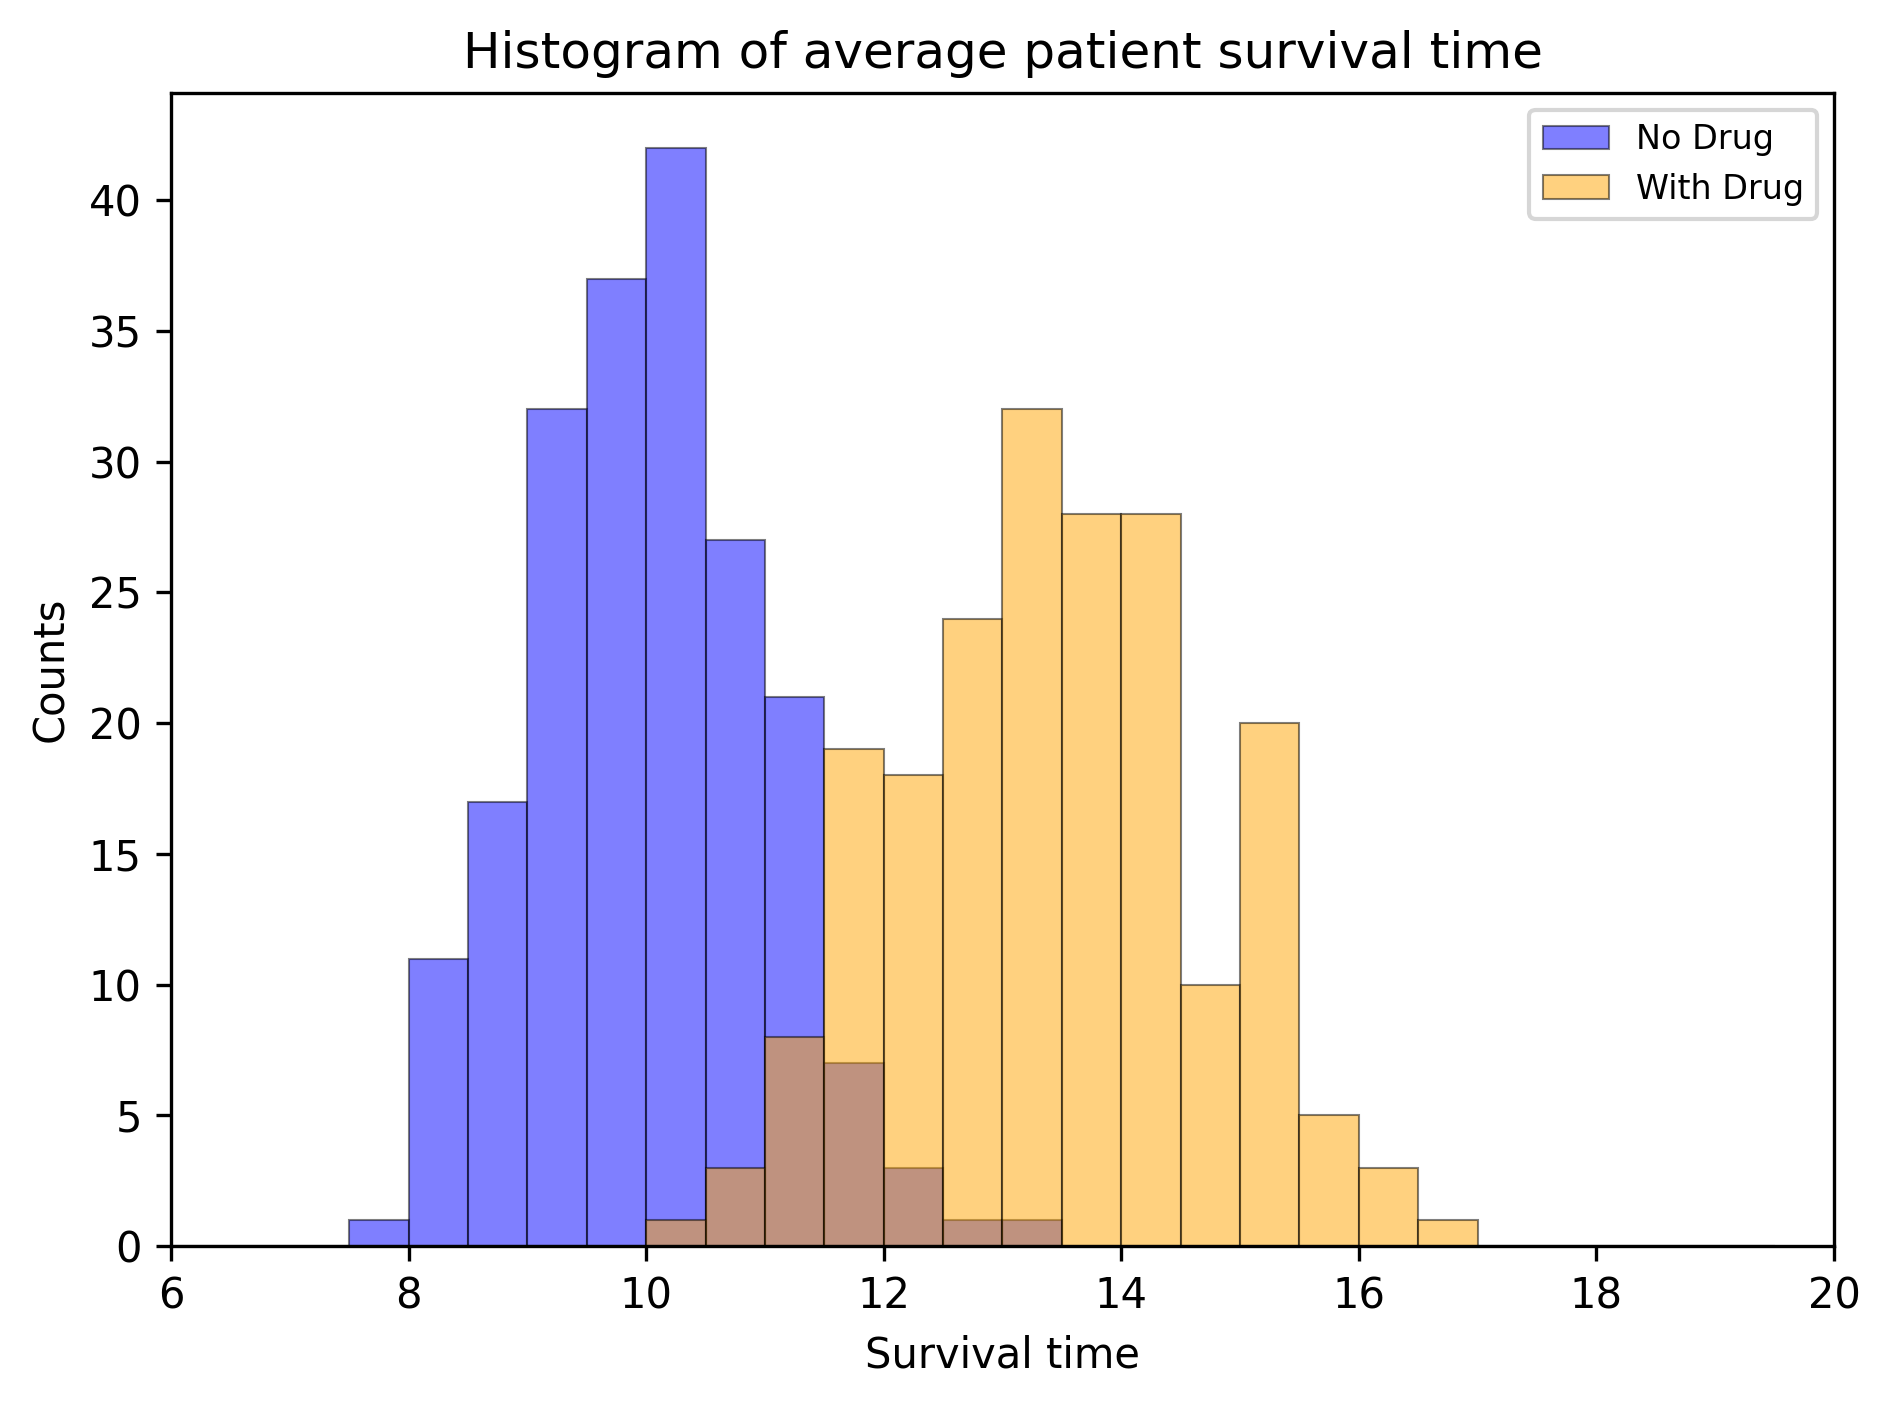
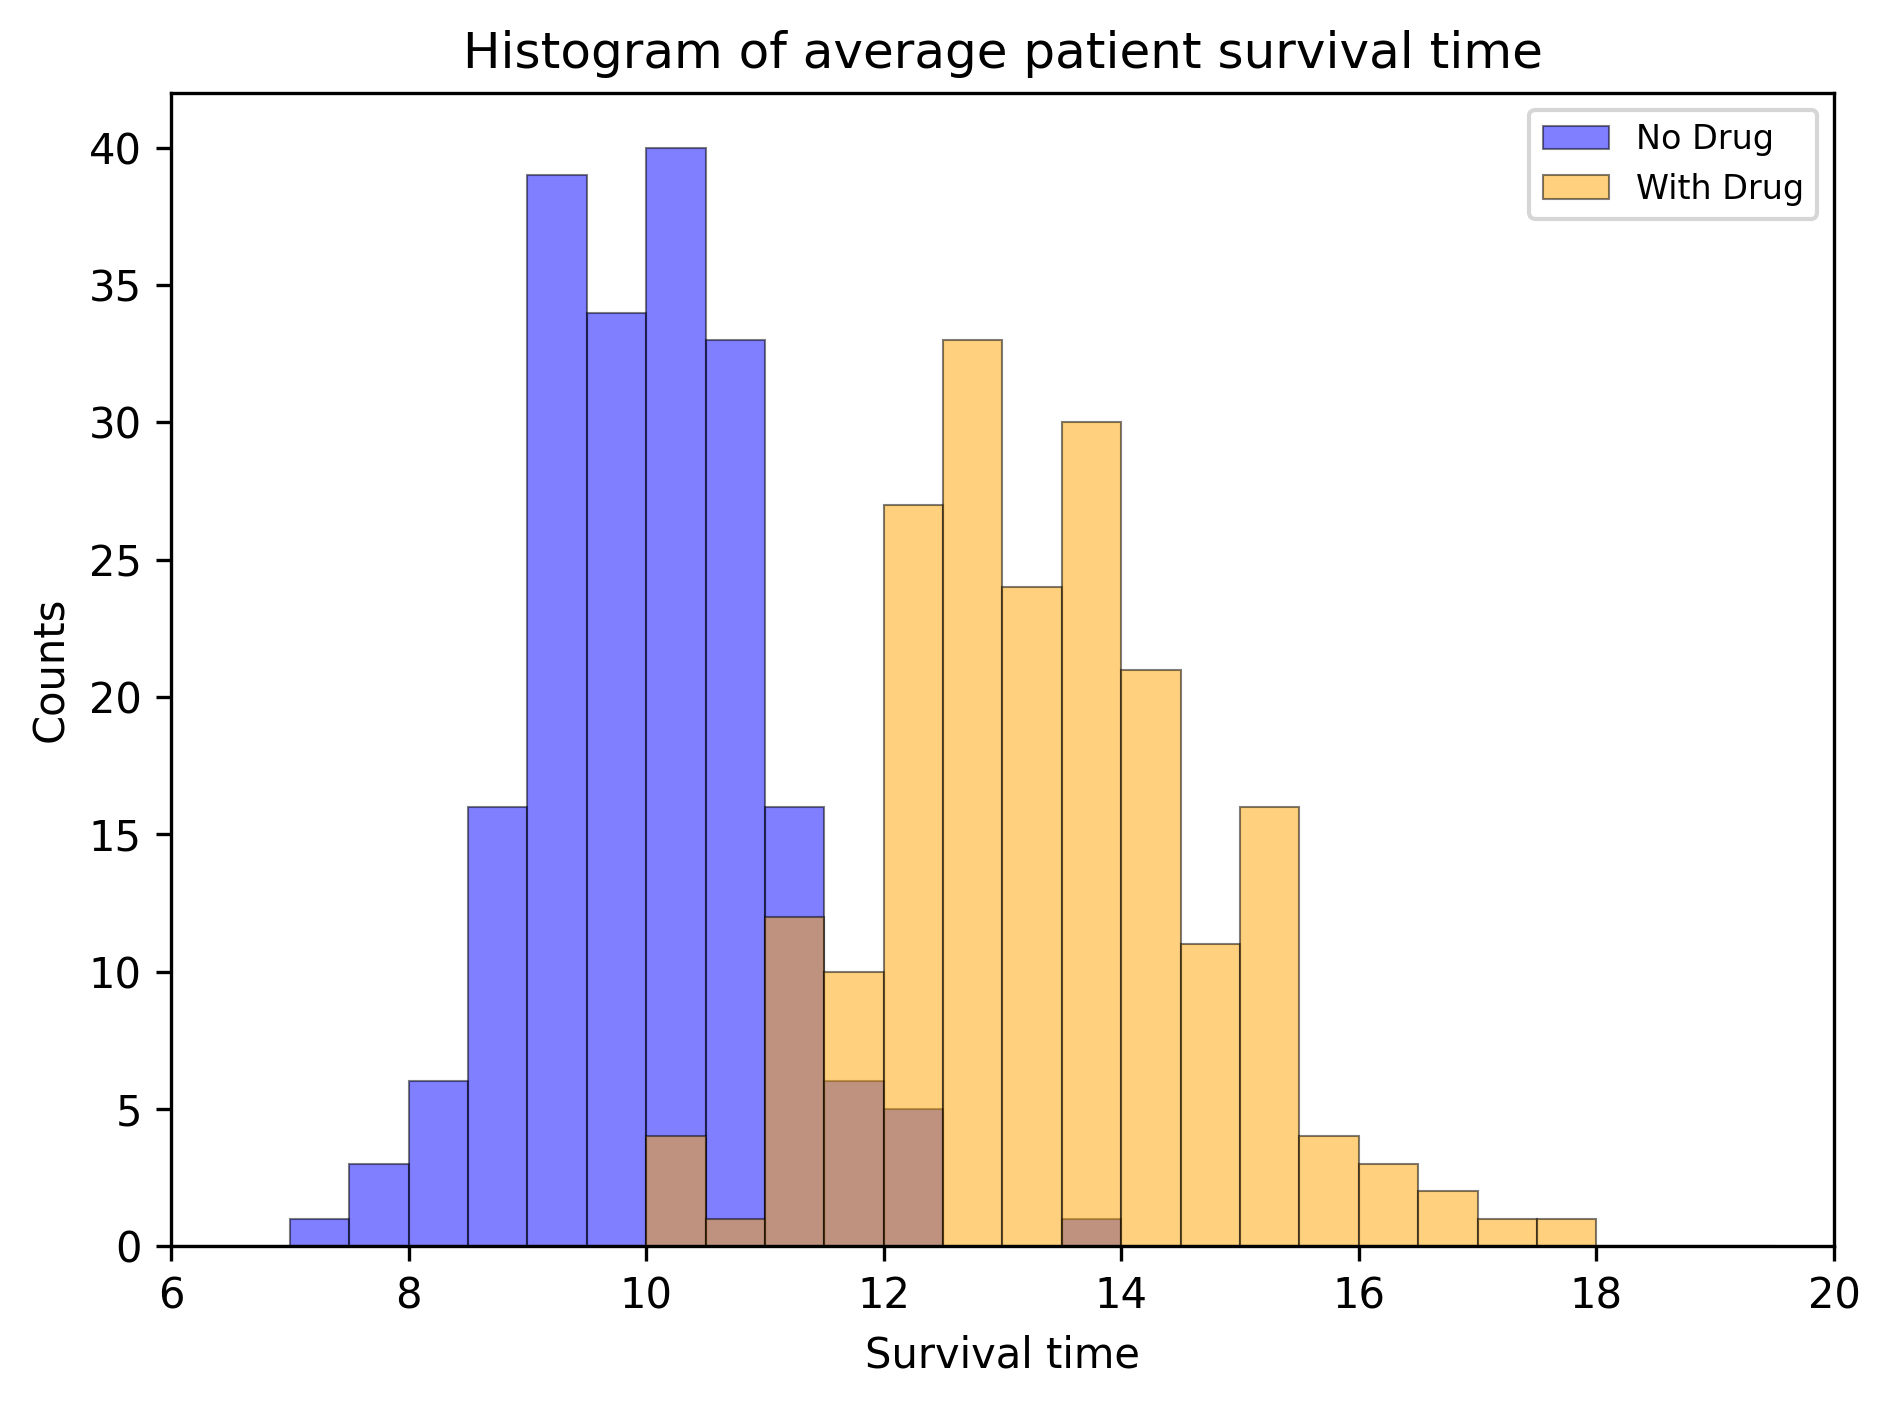
checked

diff --git a/ComparePredictionInterval.py b/ComparePredictionInterval.py
@@ -9,7 +9,7 @@ multiCohortNoDrug = Cls.MultiCohort(
     mortality_probs=[D.MORTALITY_PROB] * D.NUM_SIM_COHORTS  # [p, p, ...]
 )
 # simulate all cohorts
-multiCohortNoDrug.simulate(n_time_steps=D.TIME_STEPS)
+multiCohortNoDrug.simulate(seeds=range(D.NUM_SIM_COHORTS), n_time_steps=D.TIME_STEPS)
 
 # create multiple cohorts for when the drug is available
 multiCohortWithDrug = Cls.MultiCohort(
@@ -22,7 +22,7 @@ multiCohortWithDrug = Cls.MultiCohort(
     mortality_probs=[D.MORTALITY_PROB * D.TREATMENT_RR] * D.NUM_SIM_COHORTS
 )
 # simulate all cohorts
-multiCohortWithDrug.simulate(n_time_steps=D.TIME_STEPS)
+multiCohortWithDrug.simulate(seeds=range(D.NUM_SIM_COHORTS, 2 * D.NUM_SIM_COHORTS), n_time_steps=D.TIME_STEPS)
 
 # print outcomes of each cohort
 Support.print_outcomes(multi_cohort=multiCohortNoDrug,

diff --git a/CompareConfidenceInterval.py b/CompareConfidenceInterval.py
@@ -8,7 +8,7 @@ cohortNoDrug = Cls.Cohort(
     pop_size=D.SIM_POP_SIZE,
     mortality_prob=D.MORTALITY_PROB)
 # simulate the cohort
-cohortNoDrug.simulate(n_time_steps=D.TIME_STEPS)
+cohortNoDrug.simulate(seed=1, n_time_steps=D.TIME_STEPS)
 
 # create a cohort of patients for when the drug is available
 cohortWithDrug = Cls.Cohort(
@@ -18,7 +18,7 @@ cohortWithDrug = Cls.Cohort(
     pop_size=D.SIM_POP_SIZE,
     mortality_prob=D.MORTALITY_PROB * D.TREATMENT_RR)
 # simulate the cohort
-cohortWithDrug.simulate(n_time_steps=D.TIME_STEPS)
+cohortWithDrug.simulate(seed=2, n_time_steps=D.TIME_STEPS)
 
 # print outcomes of each cohort
 Support.print_outcomes(simulated_cohort=cohortNoDrug,

diff --git a/CompareCalibrated.py b/CompareCalibrated.py
@@ -1,7 +1,9 @@
-import CalibrationClasses as Cls
+import calib_src.classes as Cls
 import CompareInputData as D
 import SupportCalibrated as Support
-from CalibrationDefinitions import CALIBRATION_ROOT_DIR
+from calib_defs import CALIBRATION_ROOT_DIR
+
+#TODO: to be updated
 
 # create a calibrated model for when drug is not available
 calibratedModelNoDrug = Cls.CalibratedModel(

diff --git a/README.md b/README.md
@@ -1,13 +1,13 @@
 # Lab: Comparing Alternatives
 
 This repository uses:
-- [Lab_SurvivalModel](https://github.com/HPM573/Lab_SurvivalModel)
-- [Lab_MultiSurvivalModel](https://github.com/HPM573/Lab_MultiSurvivalModel)
-- [Lab_Calibration](https://github.com/HPM573/Lab_Calibration)
+- [lab-survival-model](https://github.com/HPM573/Lab_SurvivalModel)
+- [lab-multi-survival-model](https://github.com/HPM573/Lab_MultiSurvivalModel)
+- [lab-calibration](https://github.com/HPM573/Lab_Calibration)
 
 To run the code in this repository, the paths to the dependent 
 repositories on your computer should be included 
 in the Content Root. 
 To do so, open this repository in PyCharm, select "File->Settings" and 
-click on "Project->Project Structure" from the left menu. 
+click on "Project Structure" from the left menu. 
 You can now add folders to the Content Root in the right menu.
